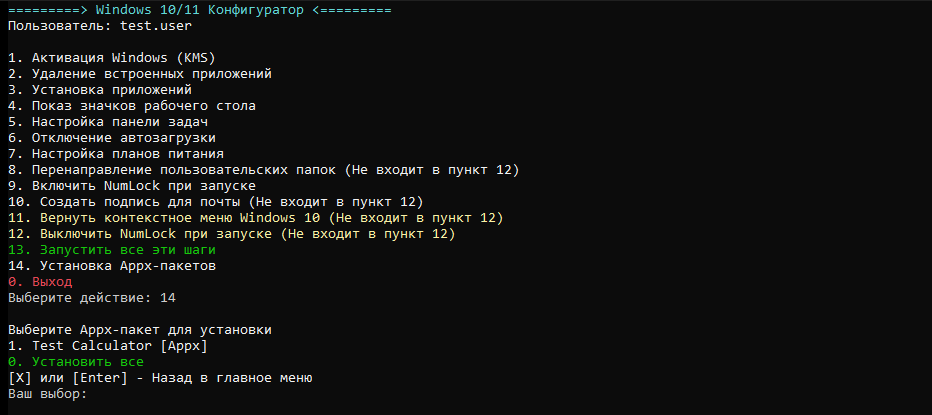
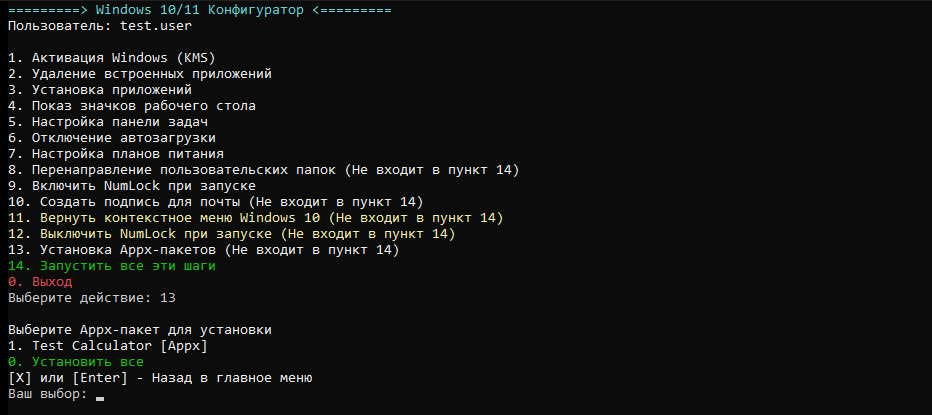
feat(menu): make Appx item 13 and RunAll item 14
Appx installation is now menu item 13, is marked as not included in RunAll and is removed from General.DefaultSteps; RunAll becomes item 14. Optional-step hints point to item 14, and the main, installation and Appx screenshots are refreshed.

diff --git a/docs/configuration.md b/docs/configuration.md
@@ -27,7 +27,7 @@ and the failed rule).
 
 ```json
 "Meta": {
-  "Version": "2.1.20",
+  "Version": "2.1.21",
   "IsTestData": false,
   "Environment": "PROD",
   "CompanyName": "Example Company",
@@ -43,7 +43,7 @@ and the failed rule).
 
 ```json
 "General": {
-  "DefaultSteps": ["Activation", "AppRemoval", "Installation", "AppxPackages", "Desktop", "Taskbar", "Autostart", "Power", "NumLock"],
+  "DefaultSteps": ["Activation", "AppRemoval", "Installation", "Desktop", "Taskbar", "Autostart", "Power", "NumLock"],
   "StepDelaySeconds": 2,
   "RequireAdministrator": true,
   "ConfirmImpact": "Medium",
@@ -52,7 +52,8 @@ and the failed rule).
 ```
 
 `DefaultSteps` is used by `-RunAll`. `StopOnFirstFailure: true` stops the run
-after the first failed step.
+after the first failed step. `AppxPackages` is intentionally not in
+`DefaultSteps`; install Appx packages through menu item 13.
 
 ## Logging
 
@@ -245,7 +246,7 @@ For each selected package, all dependencies are installed first, then the main
 resolved relative to the package directory first, then the repository root.
 
 `PackageName` is used for `Get-AppxPackage` and defaults to `Name`. An already
-installed package is skipped unless `ForceUpdate` is true. Menu item 14 opens the
+installed package is skipped unless `ForceUpdate` is true. Menu item 13 opens the
 Appx submenu; `0` installs all packages and a number installs one. In TestMode
 the installation is simulated and logged.
 

diff --git a/docs/README.md b/docs/README.md
@@ -18,7 +18,7 @@ changes.
 - **Interactive menu** — pick steps one by one, with submenus for MSI/EXE and Appx/MSIX installation.
 - **Batch mode** — run everything with `-RunAll` or selected steps with `-RunSteps`.
 - **Idempotent** — already installed applications and Appx packages are skipped; repeated runs are safe.
-- **Appx dependencies** — dependencies are installed before the main `.appx`/`.msix`/`.msixbundle`.
+- **Appx on demand** — menu item 13, not included in `-RunAll`; dependencies are installed before the main `.appx`/`.msix`/`.msixbundle`.
 - **Secrets** — `env:`, `file:` and `dpapi:` references instead of plaintext keys in the configuration.
 - **TestMode** — registry, processes, files and Appx operations are simulated in a sandbox.
 - **Outlook signature** — HTML/RTF/TXT generated from AD data, a template and a logo.

diff --git a/docs/CHANGELOG.md b/docs/CHANGELOG.md
@@ -4,6 +4,15 @@ All notable changes to WindowsConfigurator are documented here. The format is
 based on [Keep a Changelog](https://keepachangelog.com/en/1.1.0/) and the
 project follows [Semantic Versioning](https://semver.org/).
 
+## [2.1.21] - 2026-11-13
+
+### Changed
+
+- Appx installation is menu item 13 and is explicitly marked as not included in
+  RunAll; RunAll is now menu item 14.
+- Optional steps now point to item 14 in their hints.
+- Updated menu screenshots for the new numbering.
+
 ## [2.1.20] - 2026-11-12
 
 ### Changed
